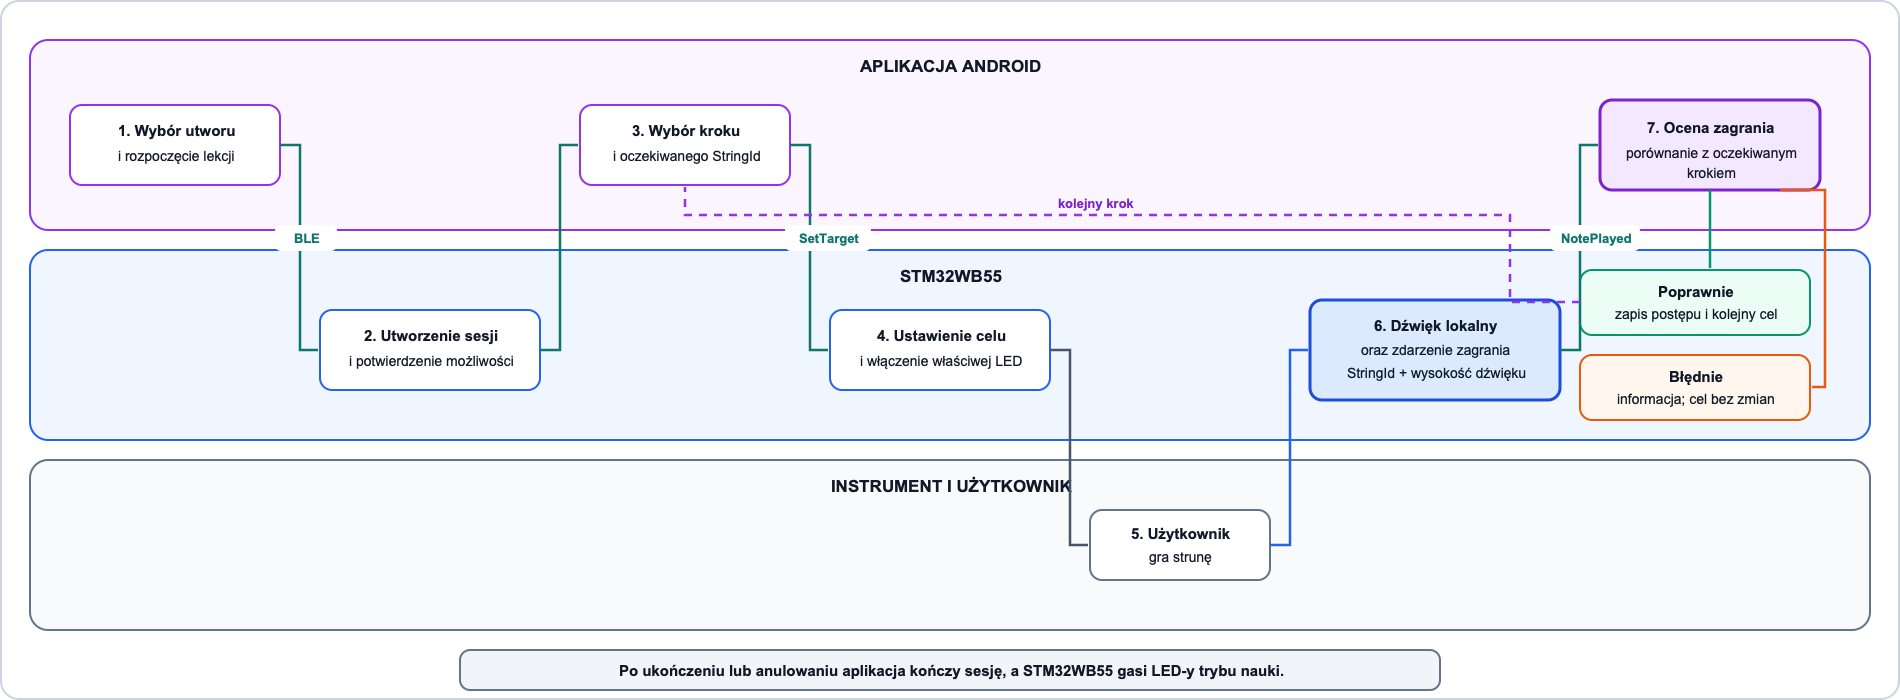
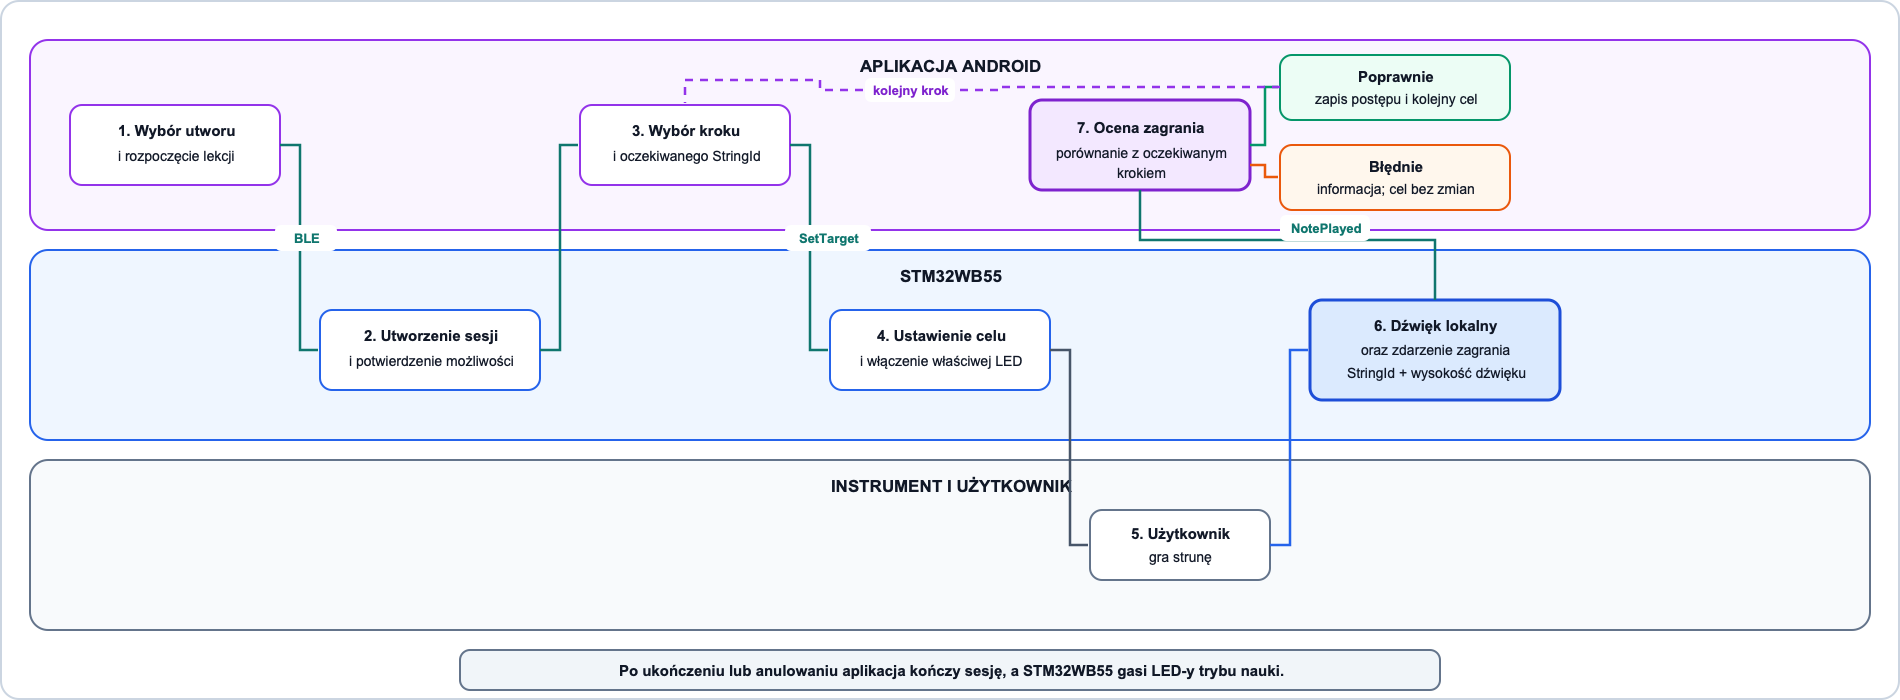
HARFA-12 Poprawa odpowiedzialności STM32 i diagramów

diff --git a/docs/adr/001-system-responsibilities.md b/docs/adr/001-system-responsibilities.md
@@ -84,7 +84,9 @@ STM32WB55 jest właścicielem:
 * identyfikacji struny przez stabilny `StringId`,
 * lokalnego uruchomienia dźwięku instrumentu,
 * fizycznego stanu 15 diod LED,
+* odczytu 7 przełączników tonacji dla dźwięków C, D, E, F, G, A i H we wszystkich oktawach,
 * stanu sprzętu, baterii i błędów urządzenia,
+* wyświetlania stanu baterii na wyświetlaczu OLED,
 * serwera BLE GATT i raportowanych zdarzeń instrumentu.
 
 Aplikacja mobilna jest właścicielem:
@@ -126,14 +128,14 @@ wymaganie pracy bez telefonu.
 | Mapowanie struny na dźwięk | Przechowuje aktualne mapowanie `StringId` na wysokość dźwięku | Używa otrzymanego mapowania do dopasowania kroków lekcji | STM32WB55 |
 | Generowanie dźwięku | Uruchamia dźwięk lokalnie po wykryciu struny | Nie uczestniczy w ścieżce generowania dźwięku instrumentu | STM32WB55 |
 | Fizyczne diody LED | Włącza i wyłącza LED oraz raportuje zastosowany stan | Wysyła żądanie podświetlenia struny wynikające z kroku lekcji | STM32WB55 dla stanu fizycznego, aplikacja dla celu lekcji |
-| Stan sprzętu | Monitoruje baterię, czujniki, podsystem audio i błędy urządzenia | Prezentuje otrzymany stan użytkownikowi | STM32WB55 |
+| Stan sprzętu | Monitoruje baterię, czujniki, podsystem audio i błędy urządzenia oraz wyświetla stan baterii na OLED | Prezentuje otrzymany stan użytkownikowi | STM32WB55 |
 | Połączenie BLE | Działa jako serwer GATT i publikuje możliwości instrumentu | Działa jako klient GATT, inicjuje połączenie i prezentuje jego stan | Każda strona dla swojego stanu lokalnego |
 | Katalog utworów | Nie przechowuje katalogu | Przechowuje i prezentuje utwory oraz ich sekwencje nut | Aplikacja |
 | Przebieg lekcji | Wykonuje komendy sprzętowe dotyczące aktualnego celu | Rozpoczyna, pauzuje i kończy lekcję oraz wybiera kolejny krok | Aplikacja |
 | Ocena zagrania | Raportuje faktycznie zagraną strunę | Porównuje zdarzenie z oczekiwanym krokiem lekcji | Aplikacja |
 | Postęp użytkownika | Nie przechowuje historii użytkownika | Zapisuje ukończone kroki, utwory i statystyki | Aplikacja |
 | Ustawienia interfejsu | Nie zna języka ani motywu aplikacji | Przechowuje język, motyw i ustawienia prezentacji | Aplikacja |
-| Ustawienia instrumentu | Stosuje ustawienie i raportuje faktycznie aktywną wartość | Może wysłać żądanie zmiany, jeżeli dana funkcja zostanie udostępniona | STM32WB55 dla aktywnego stanu |
+| Ustawienia instrumentu | Odczytuje 7 przełączników odpowiadających tonom C, D, E, F, G, A i H oraz stosuje wybraną wartość we wszystkich oktawach | Nie steruje lokalnymi przełącznikami; może prezentować aktywną wartość, jeśli protokół ją udostępnia | STM32WB55 |
 
 ### Przepływ zwykłej gry
 
